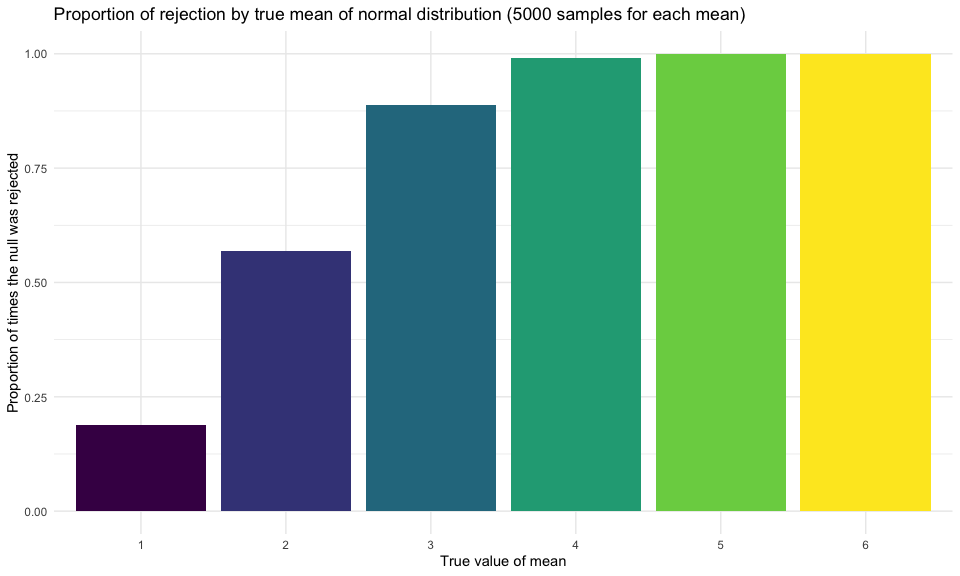
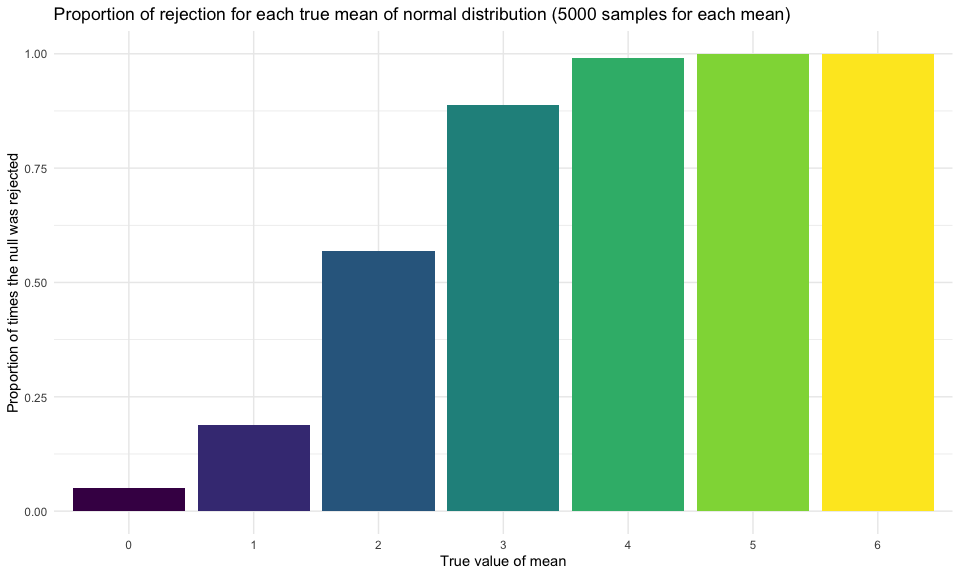
add true mean of 0 into the plots for problem 3

diff --git a/p8105_hw5_ys3297.md b/p8105_hw5_ys3297.md
@@ -186,6 +186,7 @@ distribution = 0.
 ``` r
 sim_samples_zero = 
   tibble(
+    norm_mean = 0,
     samp = rerun(5000, sim_norm_sample(mu = 0))
   )
 ```
@@ -202,11 +203,12 @@ ttest_zero_df =
   ) %>% 
   select(-t_tests) %>% 
   unnest(tidy_tests) %>% 
-  select(estimate, p.value) %>% 
+  select(norm_mean, estimate, p.value) %>% 
   rename(c("mu_hat" = "estimate", "p_value" = "p.value"))
 ```
 
-Repeat the above for normal distribution with mean from 1 to 6.
+Repeat the above for normal distribution with mean from 1 to 6, and
+combine `ttest_zero_df` into the resulting `ttest_df`.
 
 ``` r
 ttest_df = 
@@ -222,12 +224,12 @@ ttest_df =
   select(-t_tests) %>% 
   unnest(tidy_tests) %>% 
   select(norm_mean, estimate, p.value) %>% 
-  rename(c("mu_hat" = "estimate", "p_value" = "p.value"))
+  rename(c("mu_hat" = "estimate", "p_value" = "p.value")) %>% 
+  bind_rows(ttest_zero_df)
 ```
 
-Make a plot showing the proportion of times the null was rejected (the
-power of the test) on the y axis and the true value of mean on the x
-axis.
+Make a plot showing the proportion of times the null was rejected on the
+y axis and the true value of mean on the x axis.
 
 ``` r
 rej_mean_plot = 
@@ -250,7 +252,7 @@ rej_mean_plot =
     labs(
       x = "True value of mean",
       y = "Proportion of times the null was rejected",
-      title = "Proportion of rejection by true mean of normal distribution (5000 samples for each mean)"
+      title = "Proportion of rejection for each true mean of normal distribution (5000 samples for each mean)"
     )
 ```
 
@@ -262,8 +264,11 @@ rej_mean_plot
 
 <img src="p8105_hw5_ys3297_files/figure-gfm/unnamed-chunk-14-1.png" width="90%" />
 
-From the plot, we can see that the power goes up as the effect size goes
-up.
+From the plot, for true mean from 1 to 6, we can see that the proportion
+of times the null was rejected, or power, goes up as the effect size
+goes up.  
+For true mean of 0, the proportion of times the null was rejected, which
+is Type 1 Error, is slightly greater than 0 (about 0.05 as alpha).
 
 Make a plot showing the average estimate of `mu_hat` on the y axis and
 the true value of mean on the x axis.  
@@ -315,15 +320,21 @@ mu_hat_mean_plot + mu_hat_mean_sig_plot
 <img src="p8105_hw5_ys3297_files/figure-gfm/unnamed-chunk-15-1.png" width="90%" />
 
 The sample average of `mu_hat` across samples for which the null was
-rejected is approximately equal to the true mean when the true mean is
-greater than or equal to 3, but is greater than the true mean when the
-true mean is smaller than or equal to 2. The reason is the growing power
-for growing effect size. When we only picked samples for which the null
-was rejected, we were picking samples that are far away enough from the
-null (mean = 0). Therefore, random samples from normal distribution with
-true mean farther from 0 were selected more completely and the mean of
-sample means could approximate the corresponding true mean. On the other
-hand, random samples from normal distribution with true mean closer to 0
-were partially selected, and only those which were comparatively farther
-from the null were selected. Thus, the mean of sample means
-overestimated the corresponding true mean.
+rejected is approximately equal to the true mean for true mean of 3, 4,
+5, and 6, but is greater than the true mean for true mean of 1 and 2.  
+The reason is the growing power for growing effect size. When we only
+picked samples for which the null was rejected, we were picking samples
+that are far away enough from the null (mean = 0). Therefore, random
+samples from normal distribution with true mean farther from 0 were
+selected more completely and the mean of sample means could approximate
+the corresponding true mean. On the other hand, random samples from
+normal distribution with true mean closer to 0 were partially selected,
+and only those which were comparatively farther from the null were
+selected. Thus, the mean of sample means overestimated the corresponding
+true mean.  
+For true mean of 0, the sample average of `mu_hat` across samples for
+which the null was rejected is also approximately equal to the true
+mean, because in this case, the selected samples equally distributed on
+two tails of the normal distribution with center or mean of 0.
+Therefore, even though the sample means were comparatively far away from
+0, the mean of sample means still eventually approximates 0.
